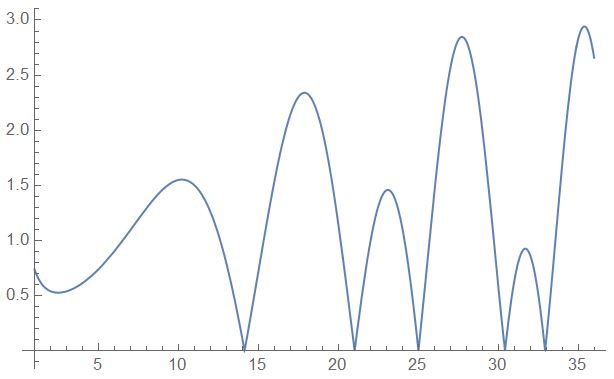
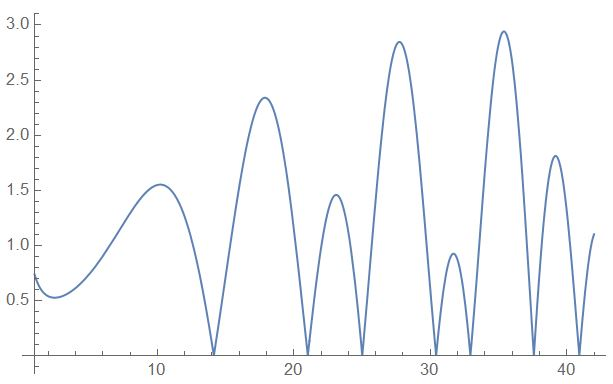
Add more Riemann-zeta roots and CI runners

diff --git a/example/example023a_riemann_zeta_zeros.cpp b/example/example023a_riemann_zeta_zeros.cpp
@@ -104,11 +104,27 @@ auto example023a_riemann_zeta_zeros() -> bool
       real_type { static_cast<unsigned>(UINT16_C(330)) } / static_cast<unsigned>(UINT8_C(10)),
     };
 
+  const bracket_type
+    bt_val5
+    {
+      real_type { static_cast<unsigned>(UINT16_C(375)) } / static_cast<unsigned>(UINT8_C(10)),
+      real_type { static_cast<unsigned>(UINT16_C(376)) } / static_cast<unsigned>(UINT8_C(10)),
+    };
+
+  const bracket_type
+    bt_val6
+    {
+      real_type { static_cast<unsigned>(UINT16_C(409)) } / static_cast<unsigned>(UINT8_C(10)),
+      real_type { static_cast<unsigned>(UINT16_C(410)) } / static_cast<unsigned>(UINT8_C(10)),
+    };
+
   // rz0: 14.134725141734693790457251983562470270784257115699243175685567460149963429809256764949010393171561012
   // rz1: 21.022039638771554992628479593896902777334340524902781754629520403587598586068890799713658514180151419
   // rz2: 25.01085758014568876321379099256282181865954967255799667249654200674509209844164427784023822455806244
   // rz3: 30.424876125859513210311897530584091320181560023715440180962146036993329389333277920290584293902089105
   // rz4: 32.935061587739189690662368964074903488812715603517039009280003440784815608630551005938848496135348718
+  // rz5: 37.586178158825671257217763480705332821405597350830793218333001113622149089618537264730329104945823796
+  // rz6: 40.918719012147495187398126914633254395726165962777279536161303667253280528720071282996003719889546875
 
   using local::complex_type;
   using local::find_riemann_root;
@@ -118,6 +134,8 @@ auto example023a_riemann_zeta_zeros() -> bool
   const complex_type rz2 { find_riemann_root(bt_val2) };
   const complex_type rz3 { find_riemann_root(bt_val3) };
   const complex_type rz4 { find_riemann_root(bt_val4) };
+  const complex_type rz5 { find_riemann_root(bt_val5) };
+  const complex_type rz6 { find_riemann_root(bt_val6) };
 
   const real_type my_real_tol { std::numeric_limits<real_type>::epsilon() * 256 };
 
@@ -128,6 +146,8 @@ auto example023a_riemann_zeta_zeros() -> bool
   const auto result_rz2_is_ok = (abs(riemann_zeta(rz2)) < my_real_tol);
   const auto result_rz3_is_ok = (abs(riemann_zeta(rz3)) < my_real_tol);
   const auto result_rz4_is_ok = (abs(riemann_zeta(rz4)) < my_real_tol);
+  const auto result_rz5_is_ok = (abs(riemann_zeta(rz5)) < my_real_tol);
+  const auto result_rz6_is_ok = (abs(riemann_zeta(rz6)) < my_real_tol);
 
   const auto
     result_is_ok
@@ -137,6 +157,8 @@ auto example023a_riemann_zeta_zeros() -> bool
       && result_rz2_is_ok
       && result_rz3_is_ok
       && result_rz4_is_ok
+      && result_rz5_is_ok
+      && result_rz6_is_ok
     };
 
   return result_is_ok;

diff --git a/README.md b/README.md
@@ -116,11 +116,11 @@ auto main() -> int
 An in-depth, non-trivial [example](https://github.com/ckormanyos/extended_complex/blob/main/example/example023_riemann_zeta_z.cpp)
 provides a header-only implementation of the complex-valued
 [Riemann-zeta function](https://github.com/ckormanyos/extended_complex/blob/main/example/zeta_detail.h).
-The program handles arguments in a relatively large, yet limited
+The program handles arguments in a relatively large, yet limited,
 unit disc of radius ${\sim}~{10}^{6}$ in ${\mathbb{C}}$.
 This example uses the algorithm described and found in
-the (legacy) `e_float` code and [paper](https://doi.acm.org/10.1145/1916461.1916469).
-See also [1] in the references below.
+the [`e_float`](https://doi.acm.org/10.1145/1916461.1916469)
+code and paper. See also [1] in the references below.
 
 The zeta-function calculation for a single complex-valued point having $101$
 decimal digits of precision can also be seen
@@ -161,11 +161,11 @@ This characteristic of the Riemann-zeta function
 forges deep connections to both prime numbers as well as number theory.
 
 See also the image below obtained from
-[WolframAlpha(R)](https://www.wolframalpha.com/input?i=Plot%5BAbs%5BZeta%5B%281%2F2%29+%2B+%28I+t%29%5D%5D%2C+%7Bt%2C+1%2C+36%7D%5D).
+[WolframAlpha(R)](https://www.wolframalpha.com/input?i=Plot%5BAbs%5BZeta%5B%281%2F2%29+%2B+%28I+t%29%5D%5D%2C+%7Bt%2C+1%2C+42%7D%5D).
 The following command has been used.
 
 ```
-Plot[Abs[Zeta[(1/2) + (I t)]], {t, 1, 36}]
+Plot[Abs[Zeta[(1/2) + (I t)]], {t, 1, 42}]
 ```
 
 The graph shows the absolute value of the complex-valued
@@ -175,7 +175,7 @@ Several of the first roots are visible.
 ![](./images/zeta_critical_strip.jpg)
 
 In [example023a_riemann_zeta_zeros.cpp](https://github.com/ckormanyos/extended_complex/blob/main/example/example023a_riemann_zeta_zeros.cpp),
-the first five non-trivial zeros of the complex-valued Riemann-zeta function on the critical strip
+the first $7$ non-trivial zeros of the complex-valued Riemann-zeta function on the critical strip
 are calculated to ${\sim}~101$ decimal digits of precision.
 
 The results found are:
@@ -200,6 +200,14 @@ $$
 r_{4}~{\approx}~32.93506158773918969066236896407490{\ldots}
 $$
 
+$$
+r_{5}~{\approx}~37.58617815882567125721776348070533{\ldots}
+$$
+
+$$
+r_{6}~{\approx}~40.91871901214749518739812691463325{\ldots}
+$$
+
 ### _Not_ Number-Theory-Ready
 
 The range and domain of the Riemann-zeta calculations
@@ -208,14 +216,14 @@ for high-precision investigations within the above-mentioned unit-disc
 of radius ${\sim}~{10}^{6}$ in ${\mathbb{C}}$.
 
 These are _not_ intended for finding record-breaking,
-(relatively) low-precision counts of zero-crossings
-in the critical strip at ${\mathbb{Re}}(z)=\frac{1}{2}$
-which are valuable for providing empirical evidence
+relatively low-precision counts of zero-crossings
+in the critical strip at ${\mathbb{Re}}(z)=\frac{1}{2}$.
+These are valuable for providing empirical evidence
 for prime number investigations in number-theory.
 Other algorithms are needed for this type
 of number-theoretical research. See also [2]
-for a summary of these and a recent record-breaking
-calculation.
+for a summary of these methods and a recent
+record-breaking calculation.
 
 ## Testing and Continuous Integration
 
